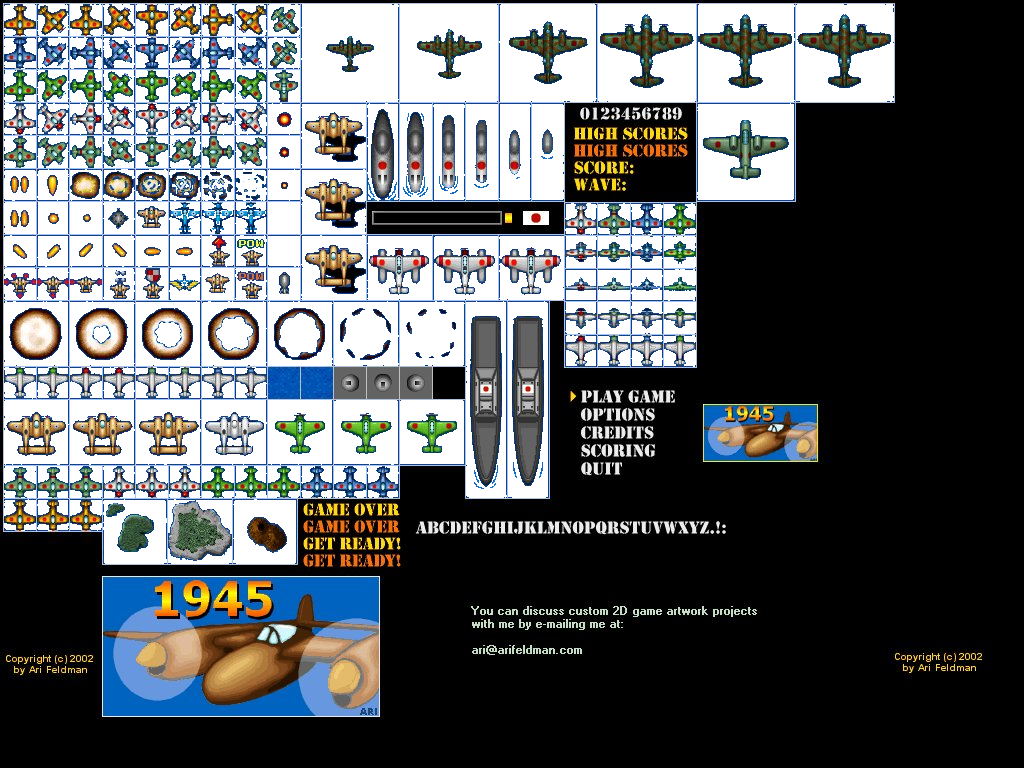
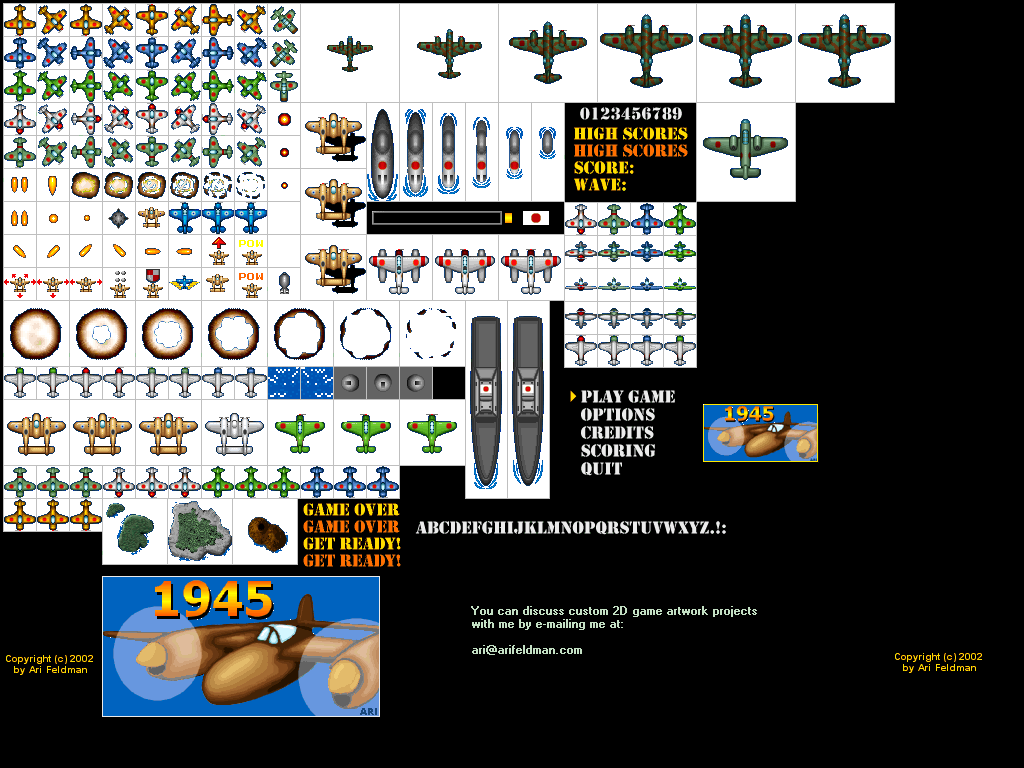
Animated player sprite, buildscript and clean atlas

diff --git a/src/main.c b/src/main.c
@@ -29,6 +29,7 @@
 // Build command: clang -I .\include\ -o .\bin\1945.exe -L .\lib -l raylibdll .\src\main.c
 
 #include "raylib.h"
+#include "sprites.h"
 #include <stdio.h>
 #include <math.h>
 #include <stdlib.h>
@@ -46,17 +47,23 @@ int main(void)
 
     InitWindow(screenWidth, screenHeight, "raylib [core] example - basic window");
 
-        const char* appDir = GetApplicationDirectory();
+    const char* appDir = GetApplicationDirectory();
     TraceLog(LOG_INFO, "App Directory: %s", appDir);
 
     ChangeDirectory(appDir);
 
-    Texture2D test = LoadTexture("assets/player/myplane_strip3.png");
-    if(test.id == 0)
+    Texture2D atlas = LoadTexture("./assets/1945_atlas.png");
+    if(atlas.id == 0)
     {
-        TraceLog(LOG_ERROR, "Error loading test texture!");
+        TraceLog(LOG_ERROR, "Error loading sprite atlas!");
         exit(-1);
     }
+
+    SpriteAnimation playerIdleAnim = CreateSpriteAnimation(atlas, 18, (Rectangle[]) {
+		(Rectangle){4, 400, 65, 65},
+		(Rectangle){70, 400, 65, 65},
+		(Rectangle){136, 400, 65, 65},
+	}, 3);
 
     SetTargetFPS(60);               // Set our game to run at 60 frames-per-second
     //--------------------------------------------------------------------------------------
@@ -75,30 +82,25 @@ int main(void)
 
         time += deltaTime;
 
-        unsigned char r = (unsigned char)((sin(time) * 0.5f + 0.5f) * 255);
-        unsigned char g = (unsigned char)((cos(time * 0.7f) * 0.5f + 0.5f) * 255);
-        unsigned char b = (unsigned char)((sin(time * 1.3f + 1.0f) * 0.5f + 0.5f) * 255);
-
-
-        Color color = (Color){r, g, b};
-
         //----------------------------------------------------------------------------------
         // TODO: Update your variables here
         //----------------------------------------------------------------------------------
+
+
 
         // Draw
         //----------------------------------------------------------------------------------
         BeginDrawing();
 
-            ClearBackground(color);
+            ClearBackground(BLUE);
 
-            DrawText("Congrats! You created your first window!", 190, 200, 20, LIGHTGRAY);
+            // DrawText("Congrats! You created your first window!", 190, 200, 20, LIGHTGRAY);
 
-            DrawRectangle(200, 200, 150, 100, RED);
-            DrawRectangleLines(200, 350, 150, 100, PINK);
-            DrawRectangleLinesEx((Rectangle){200, 450, 150, 100}, 4, DARKGRAY);
+            // DrawRectangle(200, 200, 150, 100, RED);
+            // DrawRectangleLines(200, 350, 150, 100, PINK);
+            // DrawRectangleLinesEx((Rectangle){200, 450, 150, 100}, 4, DARKGRAY);
 
-            DrawTextureEx(test, (Vector2){400, 300}, 0.f, 0.5f, WHITE);
+            // DrawTextureEx(atlas, (Vector2){400, 300}, 0.f, 0.5f, WHITE);
 
             // DrawText();
             // DrawTextEx();
@@ -107,12 +109,18 @@ int main(void)
             // IsMouseButtonDown();
             // IsKeyDown();
 
+            Rectangle dest = { 200, 200, 65, 65 };
+		    Vector2 origin = { 0 };
+		    DrawSpriteAnimationPro(&playerIdleAnim, dest, origin, 0, WHITE);
+
         EndDrawing();
         //----------------------------------------------------------------------------------
     }
 
     // De-Initialization
     //--------------------------------------------------------------------------------------
+    // Deallocate all animations
+    DisposeSpriteAnimation(&playerIdleAnim);
     CloseWindow();        // Close window and OpenGL context
     //--------------------------------------------------------------------------------------
 

diff --git a/src/sprites.c b/src/sprites.c
@@ -1,0 +1,47 @@
+#include "sprites.h"
+#include <stdlib.h>
+
+#pragma region SpriteAnimation
+SpriteAnimation CreateSpriteAnimation(const Texture2D atlas, const int framesPerSecond, const Rectangle rectangles[], const int length)
+{
+    SpriteAnimation spriteAnimation =
+	{
+		.atlas = atlas,
+		.fps = framesPerSecond,
+		.timeStarted = GetTime(),
+		.rectangles = NULL,
+		.rectanglesLength = length
+	};
+	
+	Rectangle* mem = (Rectangle*)malloc(sizeof(Rectangle) * length);
+    // allocation error check
+	if (mem == NULL)
+	{
+		TraceLog(LOG_FATAL, "No memory for CreateSpriteAnimation");
+		spriteAnimation.rectanglesLength = 0;
+		return spriteAnimation;
+	}
+
+	spriteAnimation.rectangles = mem;
+
+	for (int i = 0; i < length; i++)
+	{
+		spriteAnimation.rectangles[i] = rectangles[i];		
+	}
+
+	return spriteAnimation;
+}
+
+void DisposeSpriteAnimation(SpriteAnimation* animation)
+{
+    free(animation->rectangles);
+}
+
+void DrawSpriteAnimationPro(const SpriteAnimation* const animation, const Rectangle dest, const Vector2 origin, const float rotation, const Color tint)
+{
+    const int index = (int)((GetTime() - animation->timeStarted) * animation->fps) % animation->rectanglesLength;
+
+	const Rectangle source = animation->rectangles[index];
+	DrawTexturePro(animation->atlas, source, dest, origin, rotation, tint);
+}
+#pragma endregion

diff --git a/include/sprites.h b/include/sprites.h
@@ -1,0 +1,29 @@
+#ifndef SPRITES_H
+#define SPRITES_H
+
+#include "raylib.h"
+
+#pragma region SpriteAnimation
+// based on: https://github.com/AndrewHamel111/raylib-sprite-animation/tree/main
+typedef struct SpriteAnimation {
+    Texture2D atlas;
+    int fps;
+    float timeStarted;
+
+    Rectangle* rectangles;
+    int rectanglesLength;
+
+} SpriteAnimation;
+
+// Load an array of rectangles over the Atlas to make an animation, uses dynamic allocation so don't forget to call DisposeSpriteAnimation
+SpriteAnimation CreateSpriteAnimation(const Texture2D atlas, const int framesPerSecond, const Rectangle rectangles[], const int length);
+
+// Free the dynamically allocated memory from CreateSpriteAnimation
+void DisposeSpriteAnimation(SpriteAnimation* animation);
+
+// Draws a frame of an animation at the given destination and origin
+void DrawSpriteAnimationPro(const SpriteAnimation* const animation, const Rectangle dest, const Vector2 origin, const float rotation, const Color tint);
+
+#pragma endregion
+
+#endif // SPRITES_H
